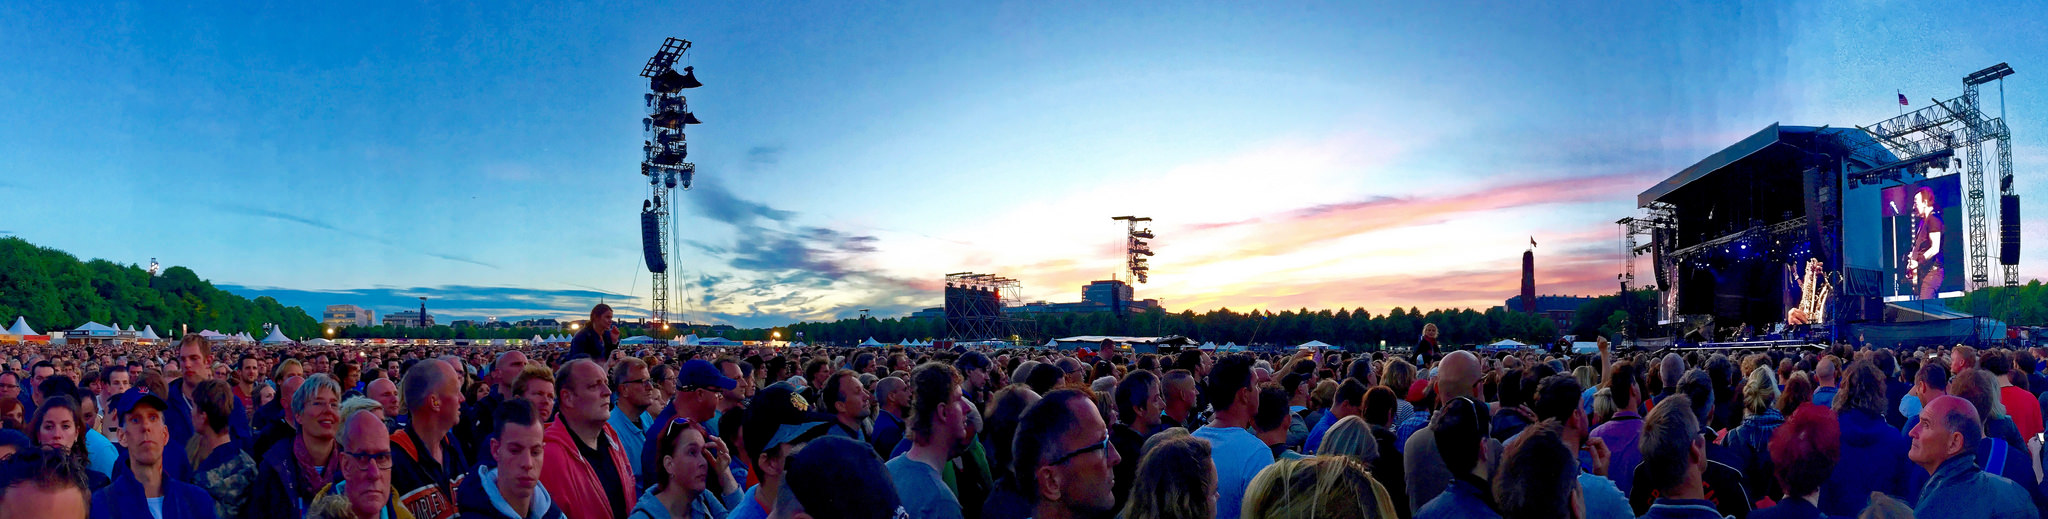
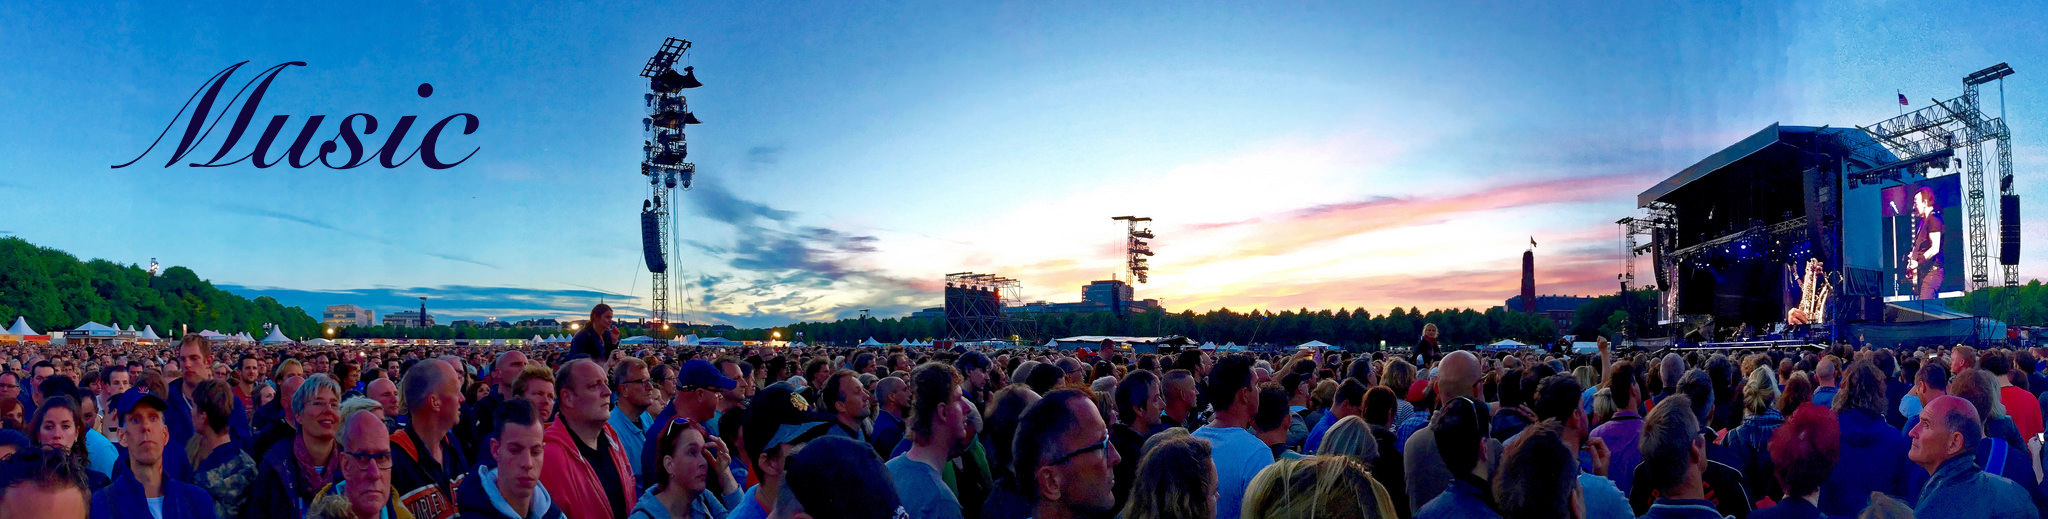
update music page w/ new header image

Changed region(s): [[0.0625, 0.1233, 0.25, 0.3391], [0.1875, 0.1541, 0.2188, 0.185]]

diff --git a/content/music.html b/content/music.html
@@ -1,7 +1,10 @@
 +++
-title = "Music"
+title = ""
 description = ""
 +++
+
+<img src="/img/concert.jpg">
+<br><br>
 
 <div id="musicplayer" style="height: 300px"></div>
 <link href="/css/ytv.css" type="text/css" rel="stylesheet" />
